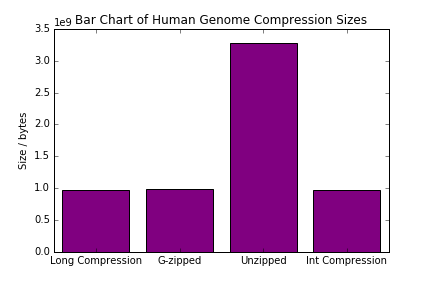
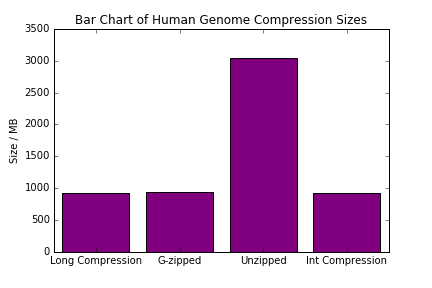
Slight modification to analysis visual

diff --git a/genomeCompressionComparison.py b/genomeCompressionComparison.py
@@ -5,17 +5,17 @@ import matplotlib.pyplot as plt
 
 #This function generates a histogram of the different human genome sizes, before and after compression.
 def compressionComparison(output):
-    unzippedSize = 3273481150
-    gzippedSize = 983659424
-    intSize = 975782472  #fileParsing.parseGenomeInt() 
-    longSize = 975782472  #fileParsing.parseGenomeLong()
+    unzippedSize = 3040 #3273481150
+    gzippedSize = 938 #983659424
+    intSize = 930 #975782472  #fileParsing.parseGenomeInt() 
+    longSize = 930 #975782472  #fileParsing.parseGenomeLong()
     
     dictionary = {u'Unzipped': unzippedSize, u'G-zipped': gzippedSize,  \
                   u'Int Compression': intSize, u'Long Compression': longSize} #key:value
-                  
+    
     plt.bar(range(len(dictionary)), dictionary.values(), align='center', color='purple')
     plt.title('Bar Chart of Human Genome Compression Sizes')
     plt.xticks(range(len(dictionary)), dictionary.keys())
-    plt.ylabel('Size / bytes')
+    plt.ylabel('Size / MB')
     plt.savefig(output)
     plt.show()
